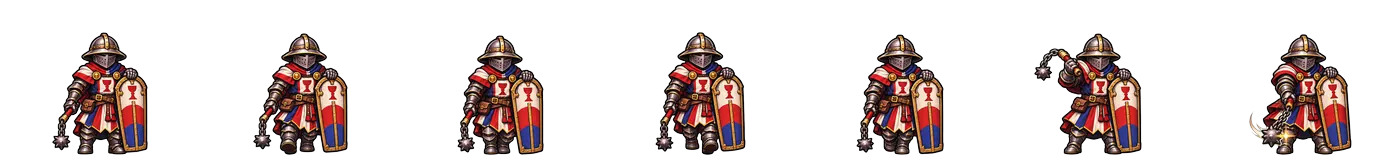
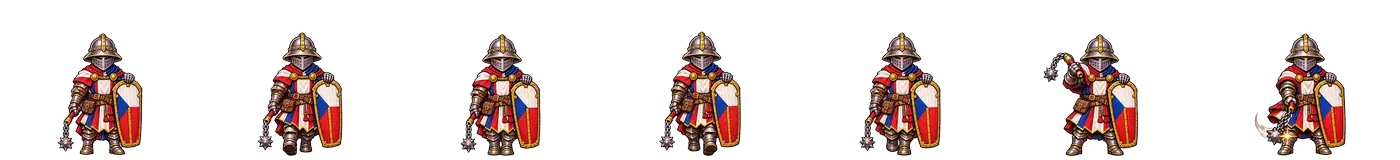
[디자인팀] 체코 장수 새 그림(성배 문양 제거) 시안 반영
Claude-Session: https://claude.ai/code/session_013M9CK1DXpnv28ZtJdsmhuH

diff --git a/teams/2-디자인/style-guide.draft.md b/teams/2-디자인/style-guide.draft.md
@@ -197,7 +197,7 @@
 ### 2. 국기·그림 속 상징 점검 (팀장에게 다시 그리기 요청)
 | 나라 | 문제 | 고칠 것 |
 |---|---|---|
-| 체코 | 가슴과 방패에 **성배 문양**(후스파 성배 = 종교 상징). 그림 규칙 "종교·신성한 상징 금지"에 걸려요 | 성배를 빼고 국기 삼각형(파랑) 또는 문양 없는 방패로 |
+| 체코 | ~~가슴과 방패에 성배 문양(종교 상징)~~ | ✅ **고침** (팀장 재생성 dec28b7): 방패·가슴이 체코 국기 무늬(흰·빨강 + 파랑 삼각형). 원본·전투용·시트 3장 모두 바꿨고 시안에도 반영 |
 | (참고) 뉴질랜드 | 국기 색(파랑·빨강) 대신 검정·은색 | 은고사리는 국가 상징이라 문제는 아니에요. 그대로 둬도 돼요 |
 - 나머지 28명은 국기 색과 문장이 실제와 크게 다르지 않아요. 국기 자체는 **정확한 SVG 파일**을 써요(원칙 유지).
 

diff --git a/teams/2-디자인/작업기록.md b/teams/2-디자인/작업기록.md
@@ -57,3 +57,4 @@
   - 다듬기: 파산 연출을 점검했고, 결과·파산 화면에 출처를 넣었어요. 나라 바꾸기 아이콘은 지구본에서 깃발 두 개로 바꿨어요(Language와 겹쳐서). 설정에 번쩍임 끄기를 넣었고, 글자 대비는 모두 4.5 이상이에요. 히브리어 배치도 정리했어요
   - 다시 그리기 요청: 체코 장수의 성배 문양(종교 상징)
   - 사용자 확인 대기: v10 전체, 광고 버튼 색
+- 체코 장수를 다시 그린 3장(성배 문양 없앰)을 받아서 같은 방식(키 124px, 발 정렬)으로 줄여 시안에 바꿔 넣었어요
